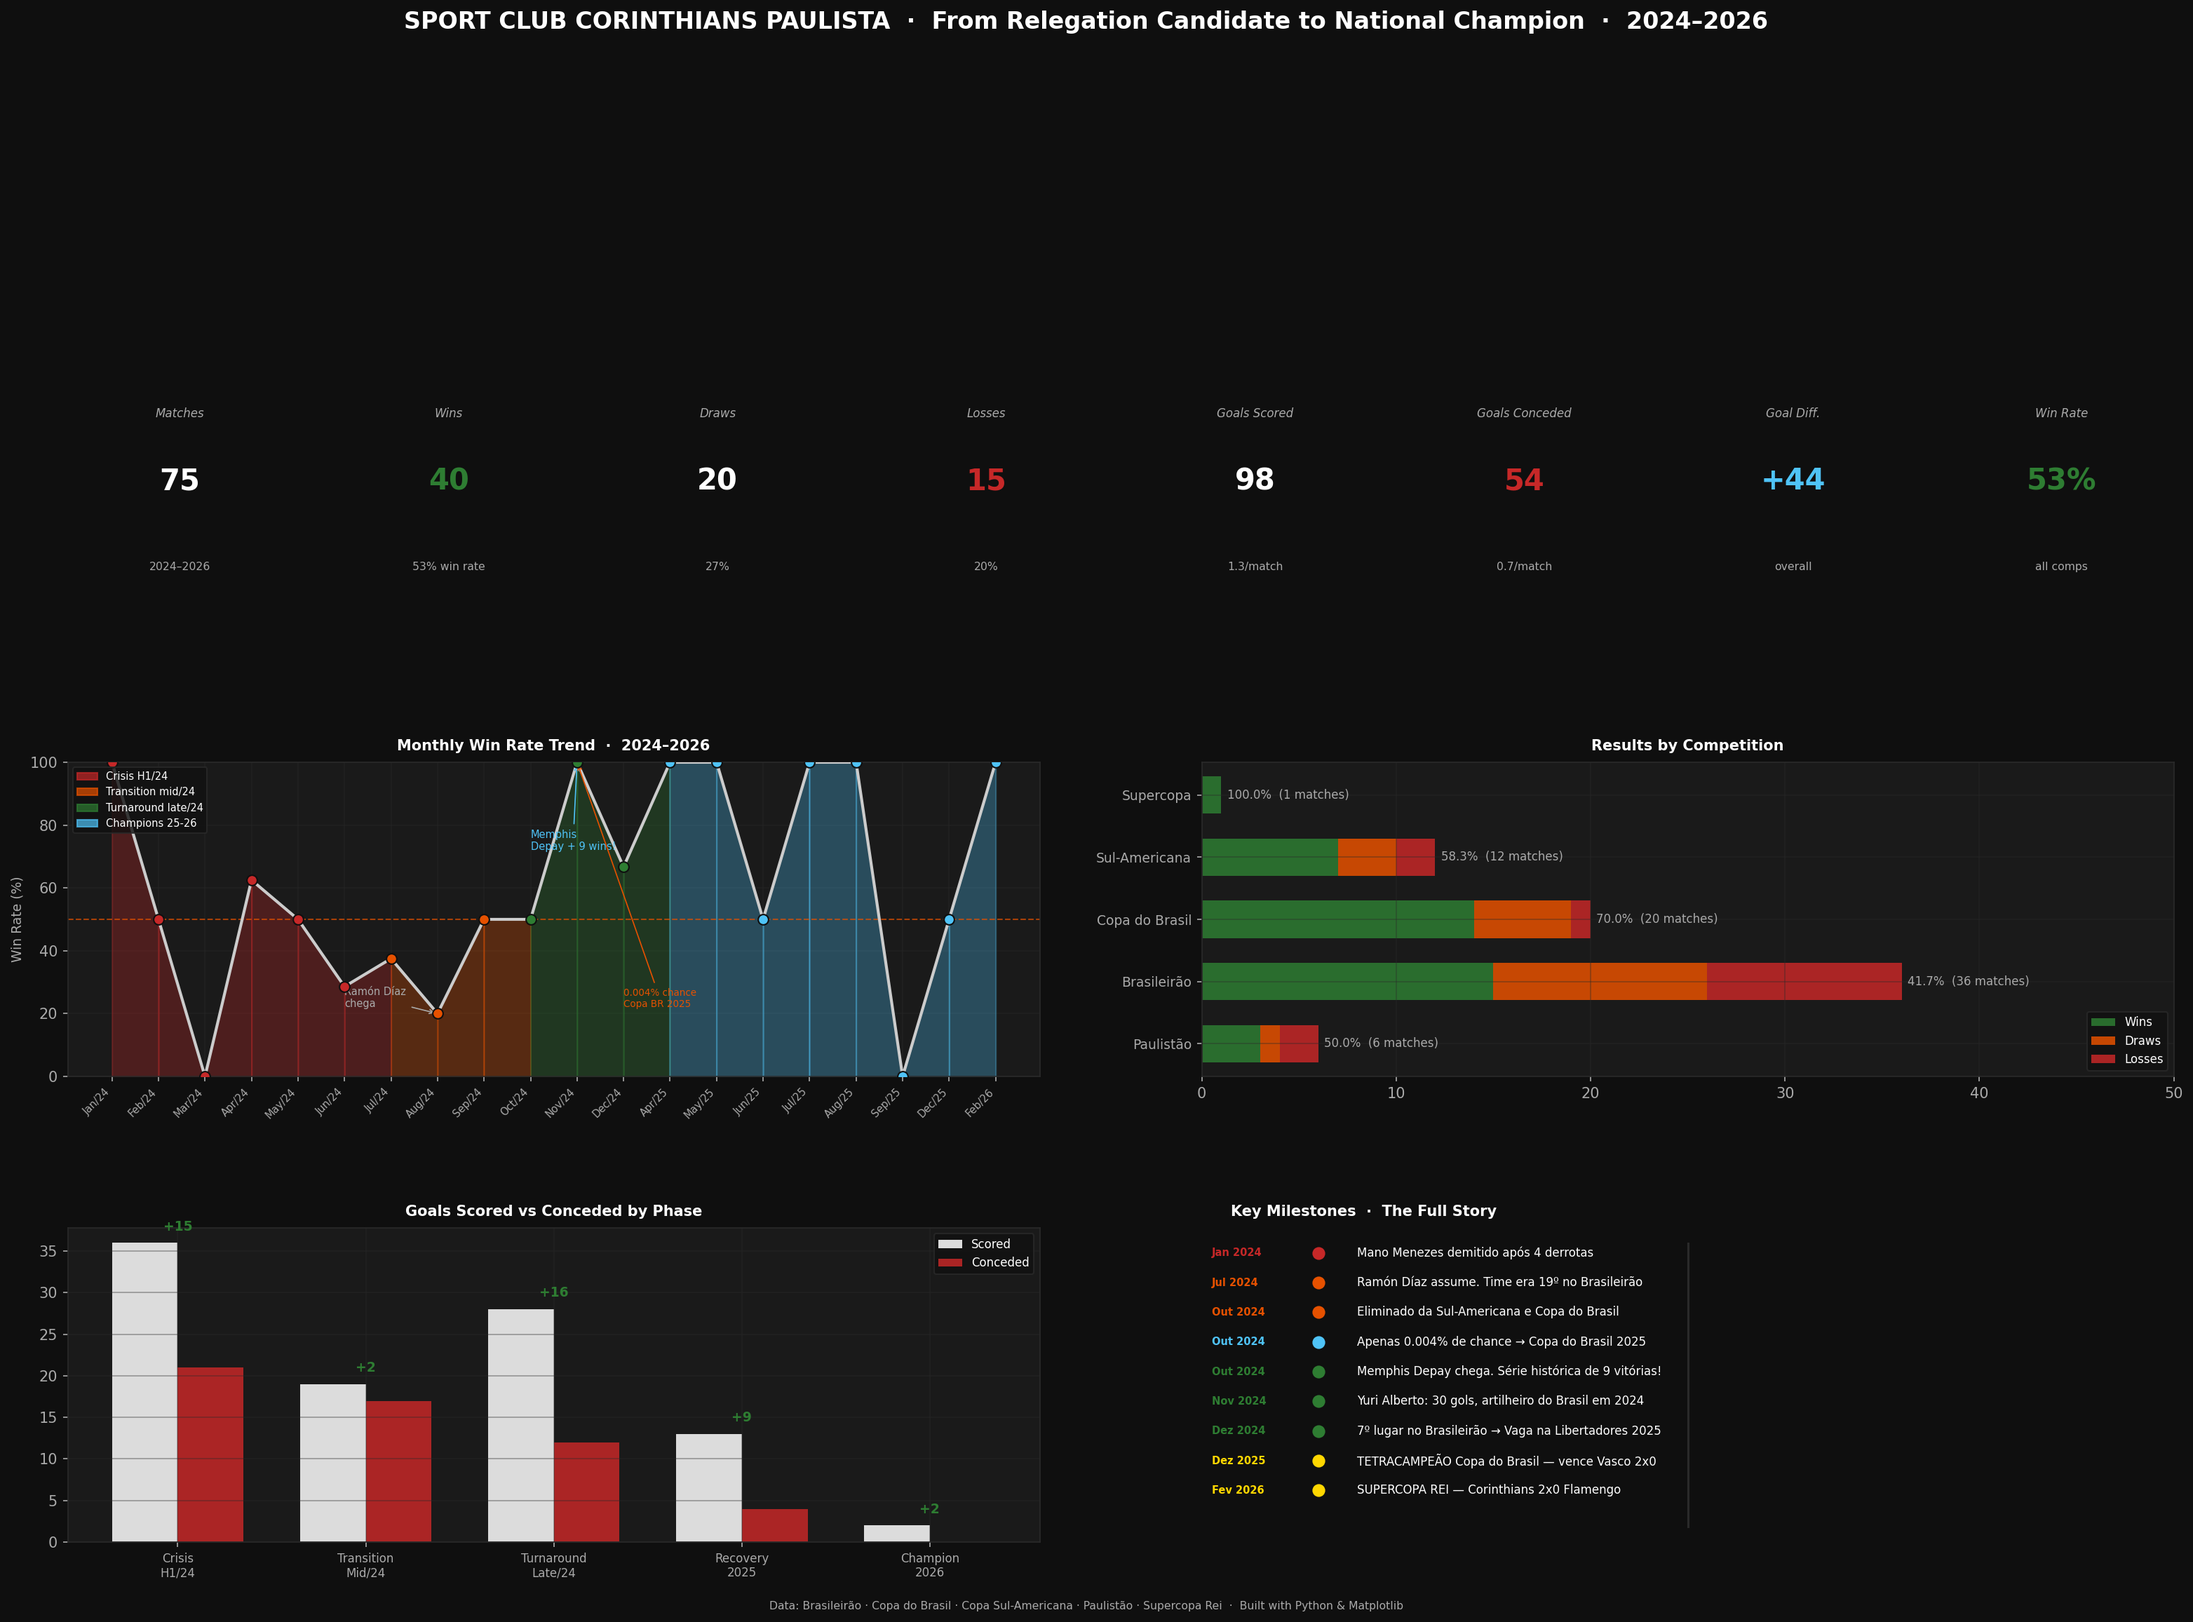
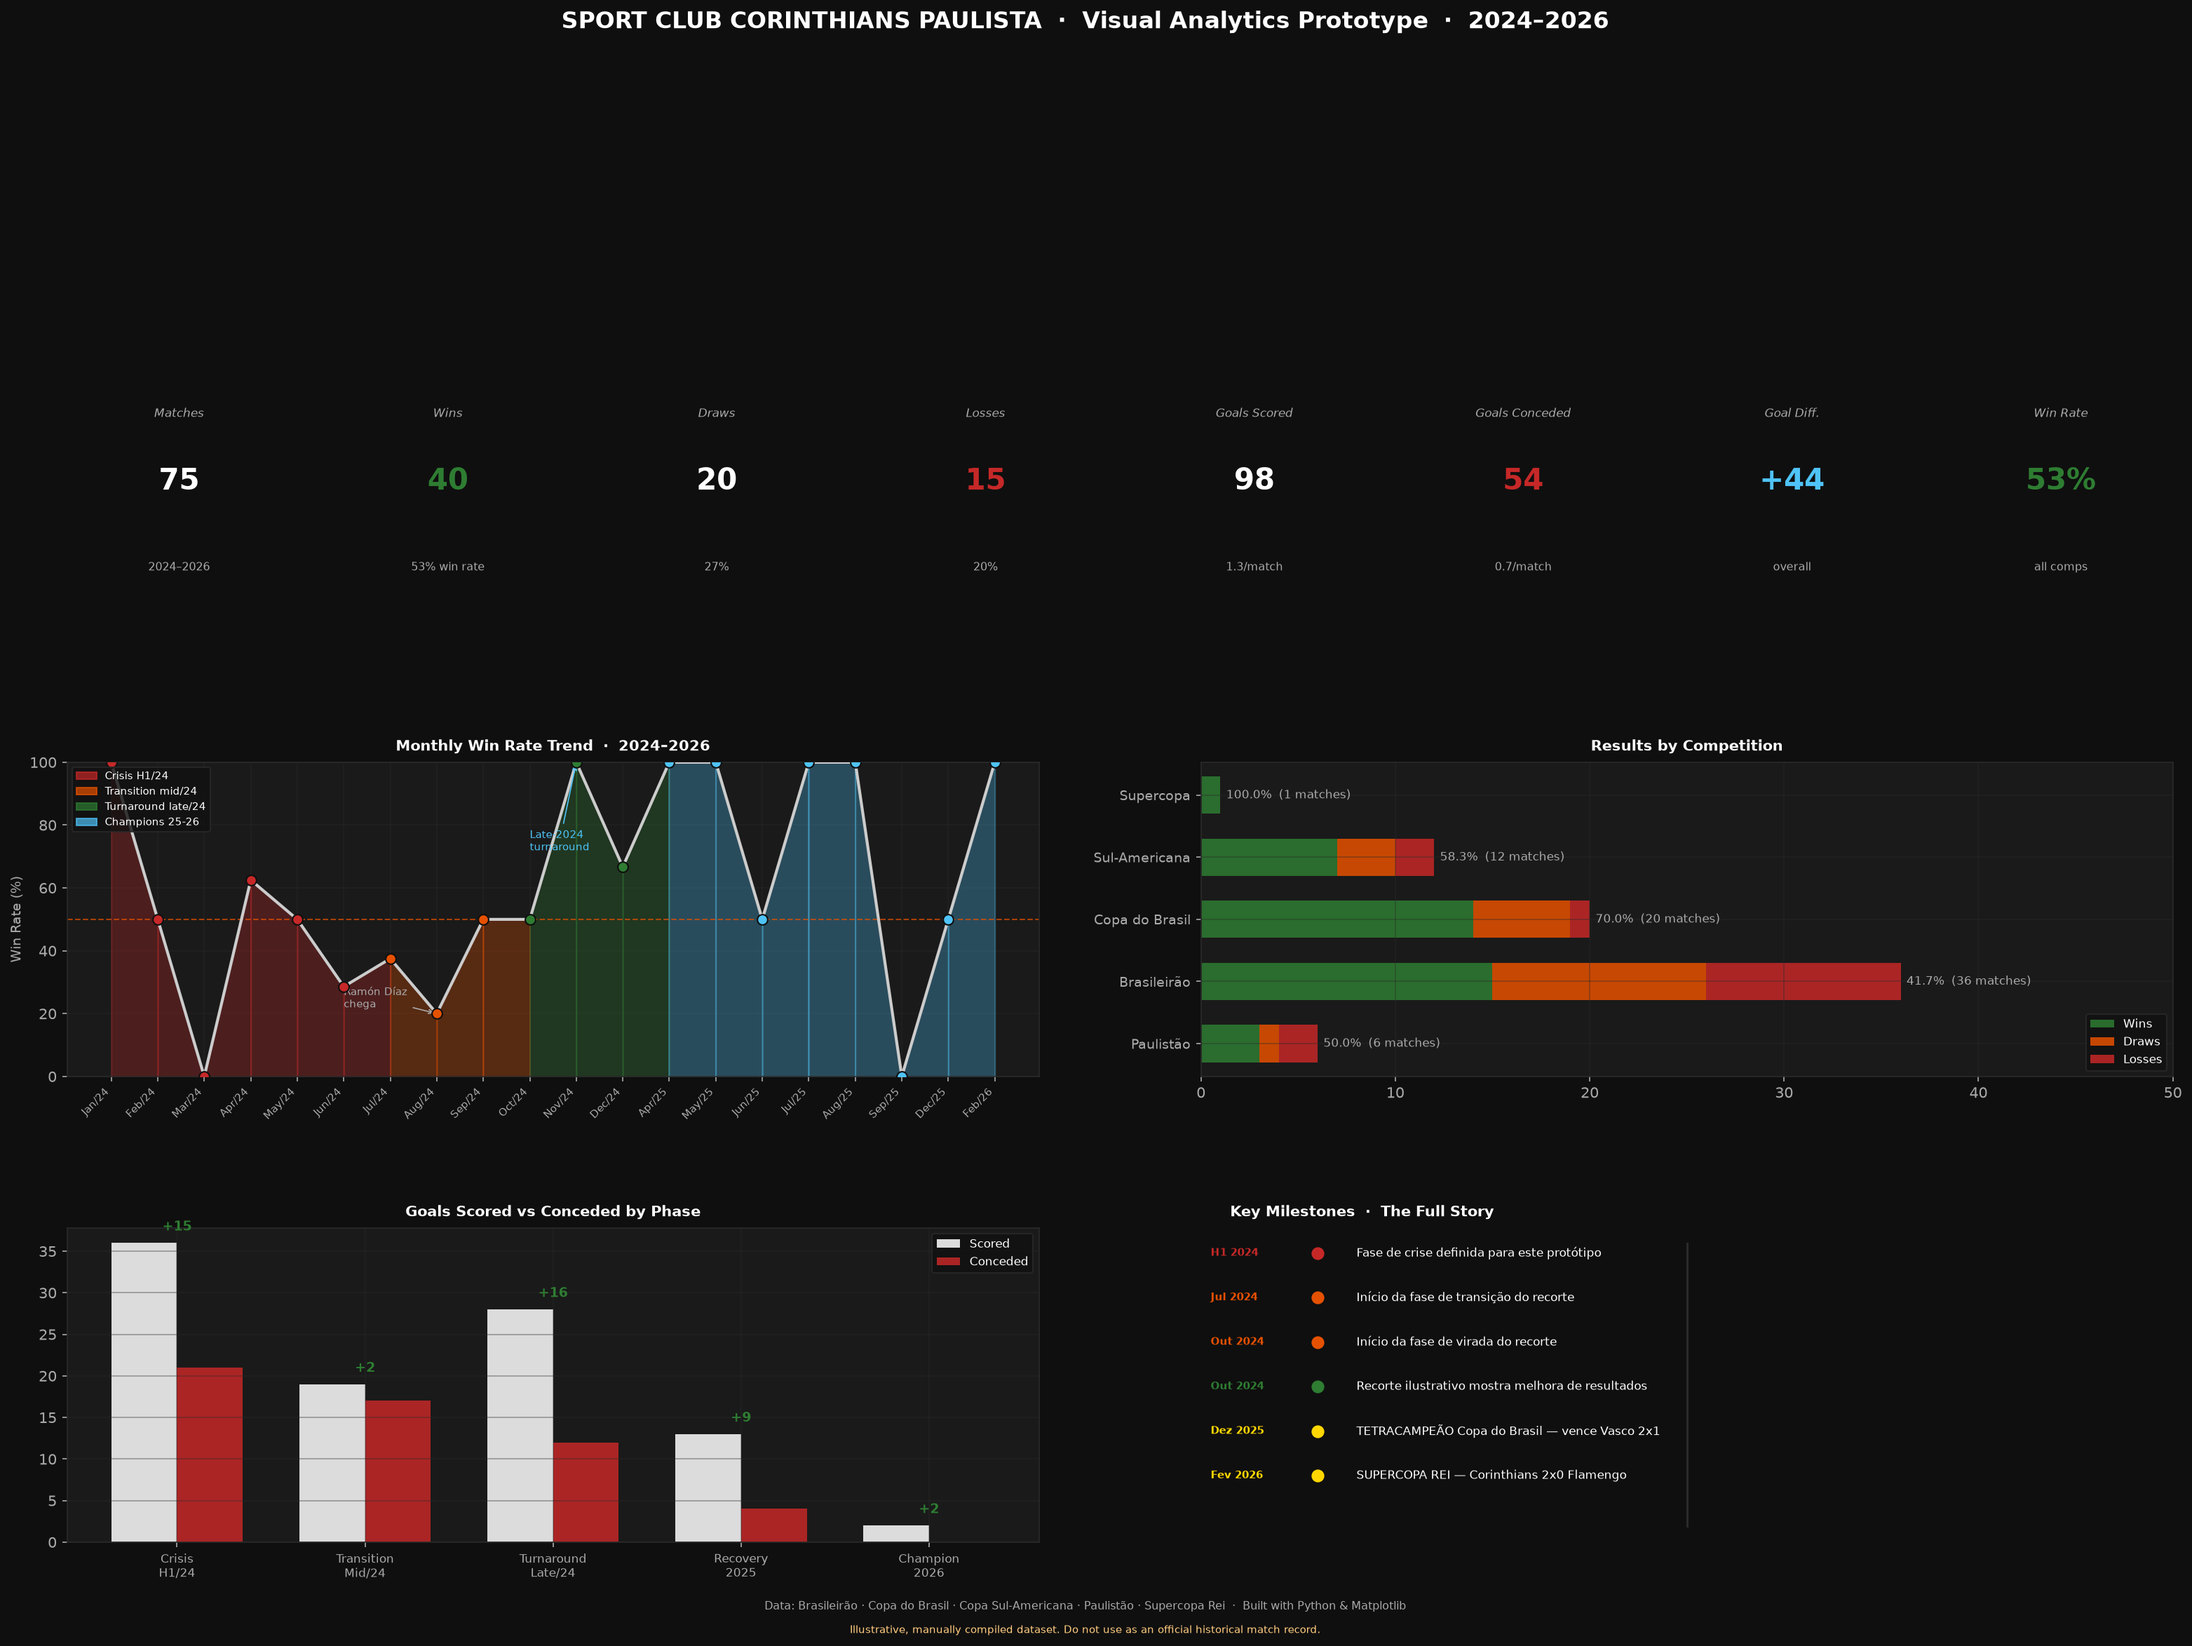
Make the dashboard reproducible and transparent

diff --git a/corinthians_dashboard.py b/corinthians_dashboard.py
@@ -1,12 +1,18 @@
+from pathlib import Path
+import argparse
+
 import pandas as pd
 import matplotlib
-matplotlib.use('TkAgg')
+matplotlib.use('Agg')
 import matplotlib.pyplot as plt
 import matplotlib.gridspec as gridspec
 import matplotlib.patches as mpatches
 import numpy as np
-import warnings
-warnings.filterwarnings('ignore')
+
+DATA_NOTE = (
+    'Illustrative, manually compiled dataset. '
+    'Do not use as an official historical match record.'
+)
 
 jogos_raw = [
     ("2024-01-21","Paulistão","Guarani",1,0,"Casa"),
@@ -91,6 +97,11 @@ df['data'] = pd.to_datetime(df['data'])
 df['resultado'] = df.apply(lambda r: 'V' if r.gols_cor > r.gols_adv else ('E' if r.gols_cor == r.gols_adv else 'D'), axis=1)
 df['saldo'] = df['gols_cor'] - df['gols_adv']
 
+if df.empty or df[['data', 'competicao', 'adversario']].isna().any().any():
+    raise ValueError('Every sample match needs a date, competition and opponent.')
+if (df[['gols_cor', 'gols_adv']] < 0).any().any():
+    raise ValueError('Goal values cannot be negative.')
+
 def fase(d):
     if d < pd.Timestamp('2024-07-01'): return '1_Crise'
     elif d < pd.Timestamp('2024-10-17'): return '2_Transicao'
@@ -110,7 +121,7 @@ plt.rcParams.update({'font.family':'DejaVu Sans','text.color':COR_TX,'axes.label
     'axes.grid':True,'grid.alpha':0.4})
 
 fig = plt.figure(figsize=(22,16), facecolor=COR_BG)
-fig.suptitle('SPORT CLUB CORINTHIANS PAULISTA  ·  From Relegation Candidate to National Champion  ·  2024–2026',
+fig.suptitle('SPORT CLUB CORINTHIANS PAULISTA  ·  Visual Analytics Prototype  ·  2024–2026',
              fontsize=16, fontweight='bold', color=COR_TX, y=0.97)
 
 gs = gridspec.GridSpec(4,4,figure=fig,hspace=0.6,wspace=0.4,
@@ -151,10 +162,8 @@ for xi,yi,c in zip(x,y,am['cor']): ax1.scatter(xi,yi,color=c,s=50,zorder=5,edgec
 ax1.axhline(y=50,color=COR_E,linewidth=1,linestyle='--',alpha=0.7)
 ax1.annotate('Ramón Díaz\nchega',xy=(7,y[7] if len(y)>7 else 40),xytext=(5,22),fontsize=7,color=COR_ST,
     arrowprops=dict(arrowstyle='->',color=COR_ST,lw=0.8))
-ax1.annotate('Memphis\nDepay + 9 wins!',xy=(10,y[10] if len(y)>10 else 55),xytext=(9,72),fontsize=7,color='#4fc3f7',
+ax1.annotate('Late-2024\nturnaround',xy=(10,y[10] if len(y)>10 else 55),xytext=(9,72),fontsize=7,color='#4fc3f7',
     arrowprops=dict(arrowstyle='->',color='#4fc3f7',lw=0.8))
-ax1.annotate('0.004% chance\nCopa BR 2025',xy=(10,y[10] if len(y)>10 else 55),xytext=(11,22),fontsize=6.5,color=COR_E,
-    arrowprops=dict(arrowstyle='->',color=COR_E,lw=0.8))
 ax1.set_xticks(x); ax1.set_xticklabels(am['ms'],rotation=45,ha='right',fontsize=7)
 ax1.set_ylabel('Win Rate (%)',fontsize=9,color=COR_ST); ax1.set_ylim(0,100)
 ax1.set_title('Monthly Win Rate Trend  ·  2024–2026',fontsize=10,color=COR_TX,pad=8,fontweight='bold')
@@ -200,14 +209,11 @@ ax4=fig.add_subplot(gs[3,2:]); ax4.set_facecolor('#111111'); ax4.axis('off')
 ax4.set_title('Key Milestones  ·  The Full Story',fontsize=10,color=COR_TX,pad=8,fontweight='bold',loc='left',x=0.03)
 ax4.axvline(x=0.12,ymin=0.05,ymax=0.95,color=COR_GR,linewidth=1.5)
 marcos=[
-    ("Jan 2024",COR_D,"Mano Menezes demitido após 4 derrotas"),
-    ("Jul 2024",COR_E,"Ramón Díaz assume. Time era 19º no Brasileirão"),
-    ("Out 2024",COR_E,"Eliminado da Sul-Americana e Copa do Brasil"),
-    ("Out 2024",'#4fc3f7',"Apenas 0.004% de chance → Copa do Brasil 2025"),
-    ("Out 2024",COR_V,"Memphis Depay chega. Série histórica de 9 vitórias!"),
-    ("Nov 2024",COR_V,"Yuri Alberto: 30 gols, artilheiro do Brasil em 2024"),
-    ("Dez 2024",COR_V,"7º lugar no Brasileirão → Vaga na Libertadores 2025"),
-    ("Dez 2025",'#ffd700',"TETRACAMPEÃO Copa do Brasil — vence Vasco 2x0"),
+    ("H1 2024",COR_D,"Fase de crise definida para este protótipo"),
+    ("Jul 2024",COR_E,"Início da fase de transição do recorte"),
+    ("Out 2024",COR_E,"Início da fase de virada do recorte"),
+    ("Out 2024",COR_V,"Recorte ilustrativo mostra melhora de resultados"),
+    ("Dez 2025",'#ffd700',"TETRACAMPEÃO Copa do Brasil — vence Vasco 2x1"),
     ("Fev 2026",'#ffd700',"SUPERCOPA REI — Corinthians 2x0 Flamengo"),
 ]
 for i,(data,cor,texto) in enumerate(marcos):
@@ -218,8 +224,12 @@ for i,(data,cor,texto) in enumerate(marcos):
 
 fig.text(0.5,0.02,'Data: Brasileirão · Copa do Brasil · Copa Sul-Americana · Paulistão · Supercopa Rei  ·  Built with Python & Matplotlib',
          ha='center',fontsize=7.5,color=COR_ST)
+fig.text(0.5,0.006,DATA_NOTE,ha='center',fontsize=7,color='#ffcc80')
 
-plt.savefig(str(__import__('pathlib').Path.home()/'Downloads'/'corinthians_dashboard_2024_2026.png'),
+parser = argparse.ArgumentParser(description='Render the Corinthians analytics prototype.')
+parser.add_argument('--output', type=Path, default=Path(__file__).with_name('corinthians_dashboard_2024_2026.png'))
+args = parser.parse_args()
+args.output.parent.mkdir(parents=True, exist_ok=True)
+plt.savefig(args.output,
             dpi=150,bbox_inches='tight',facecolor=COR_BG)
-print('Dashboard salvo em ~/Downloads/corinthians_dashboard_2024_2026.png')
-plt.show()
+print(f'Dashboard saved to {args.output}')
